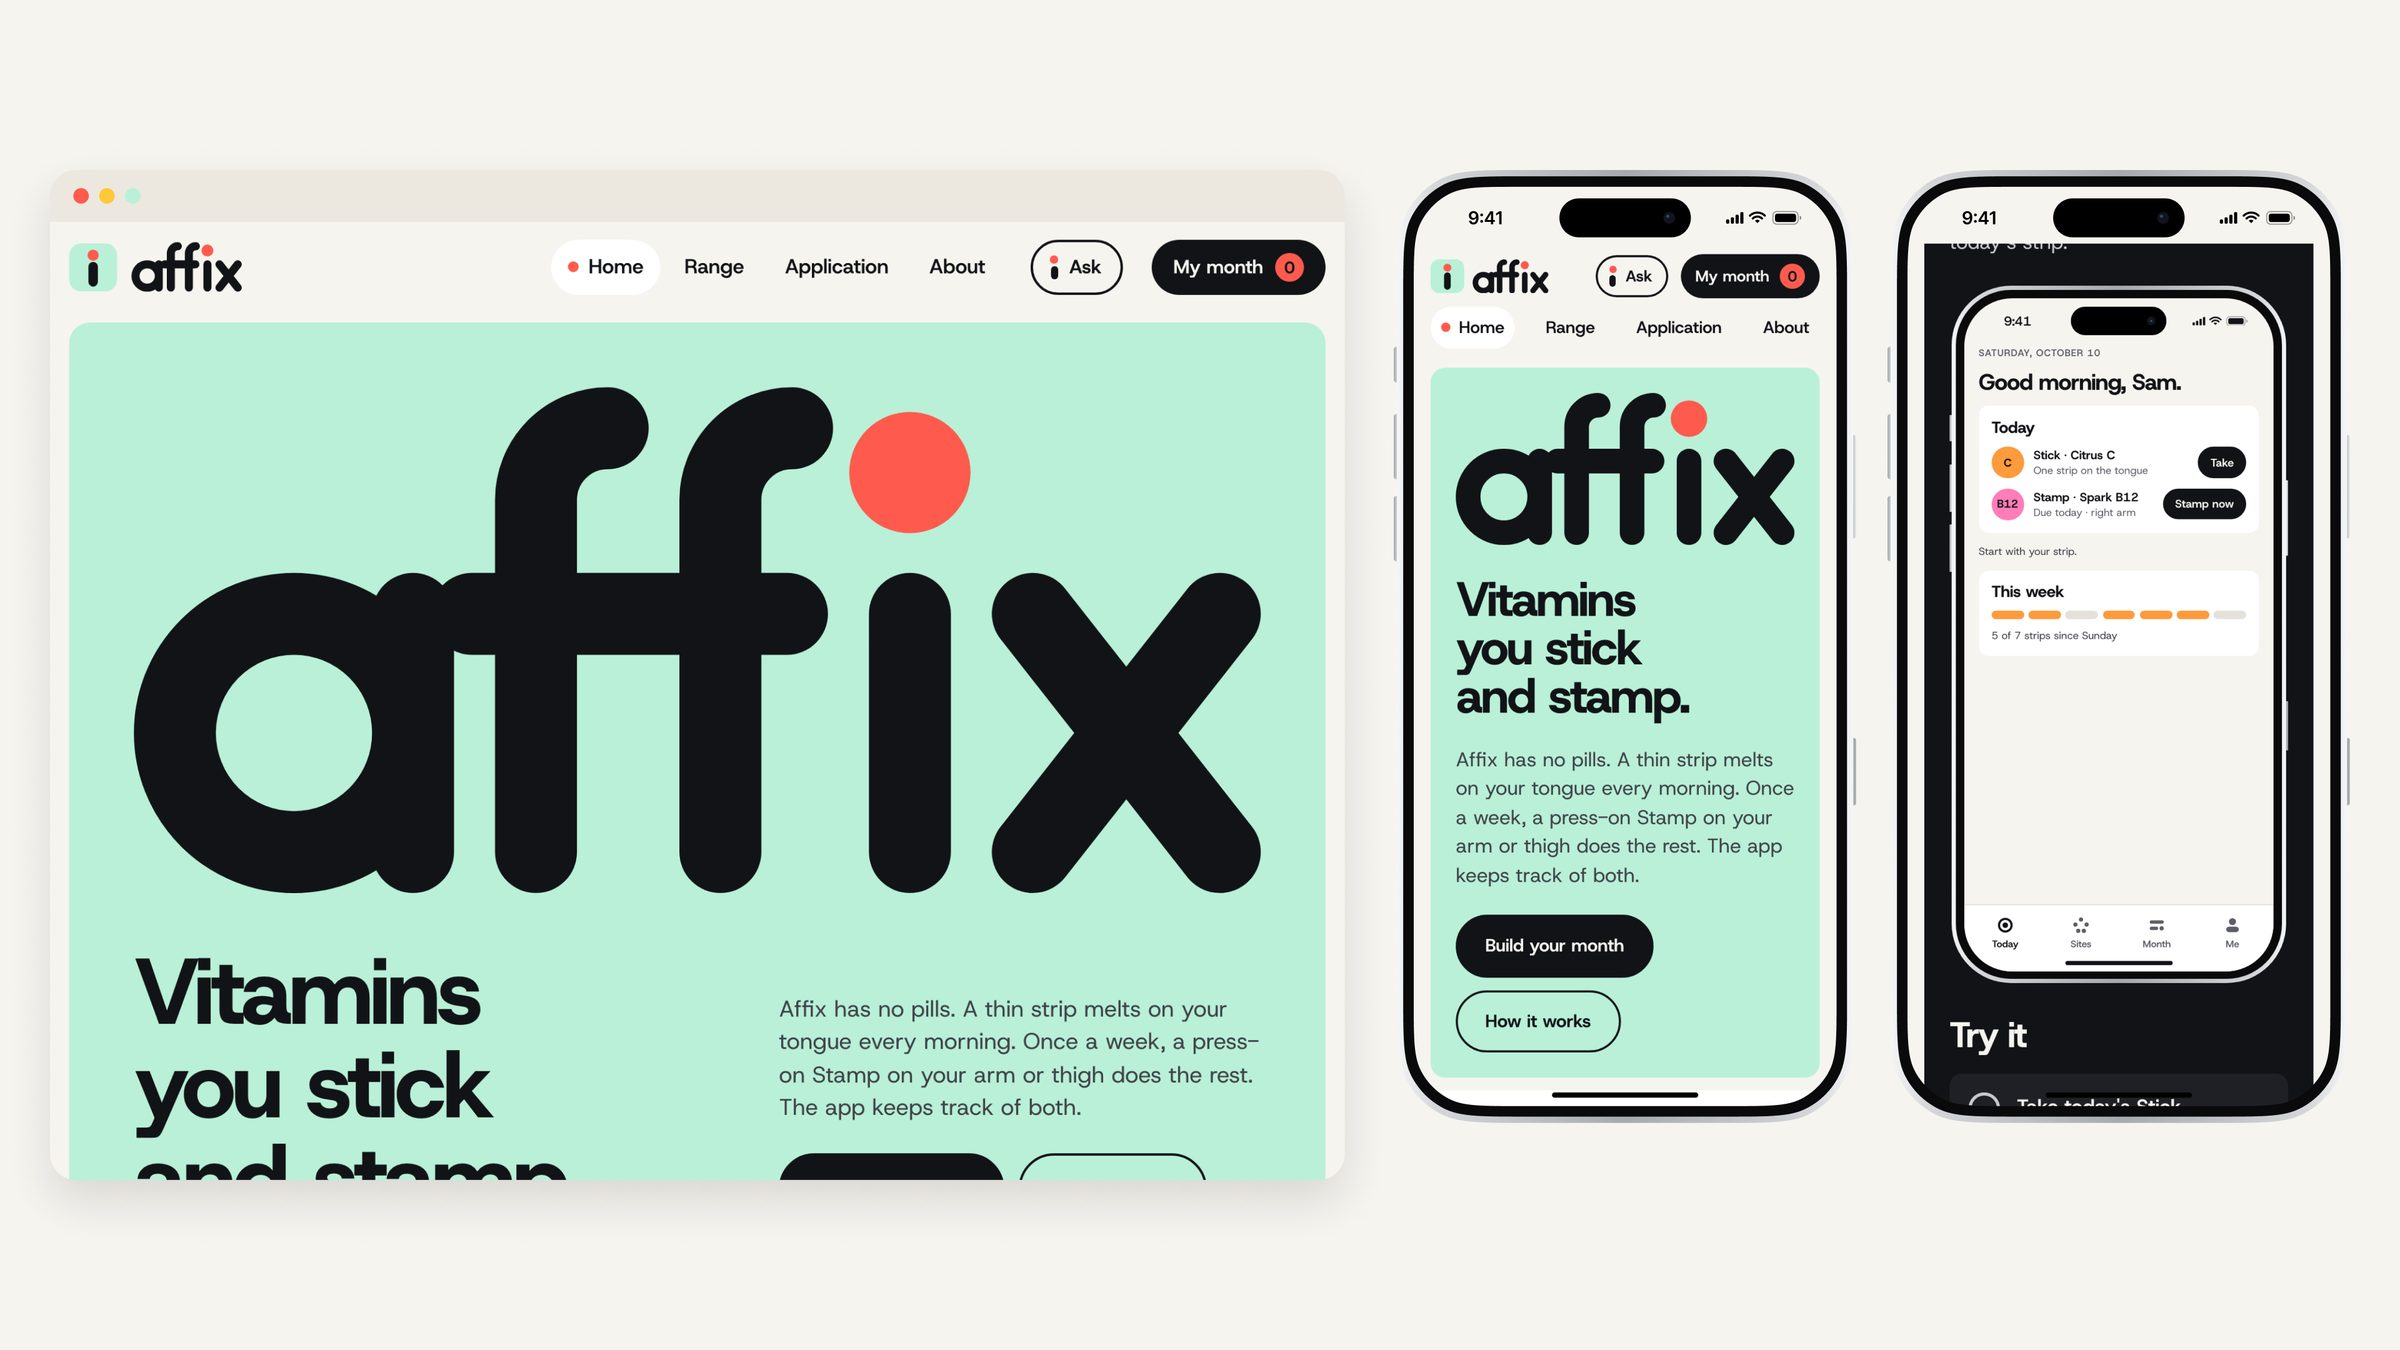
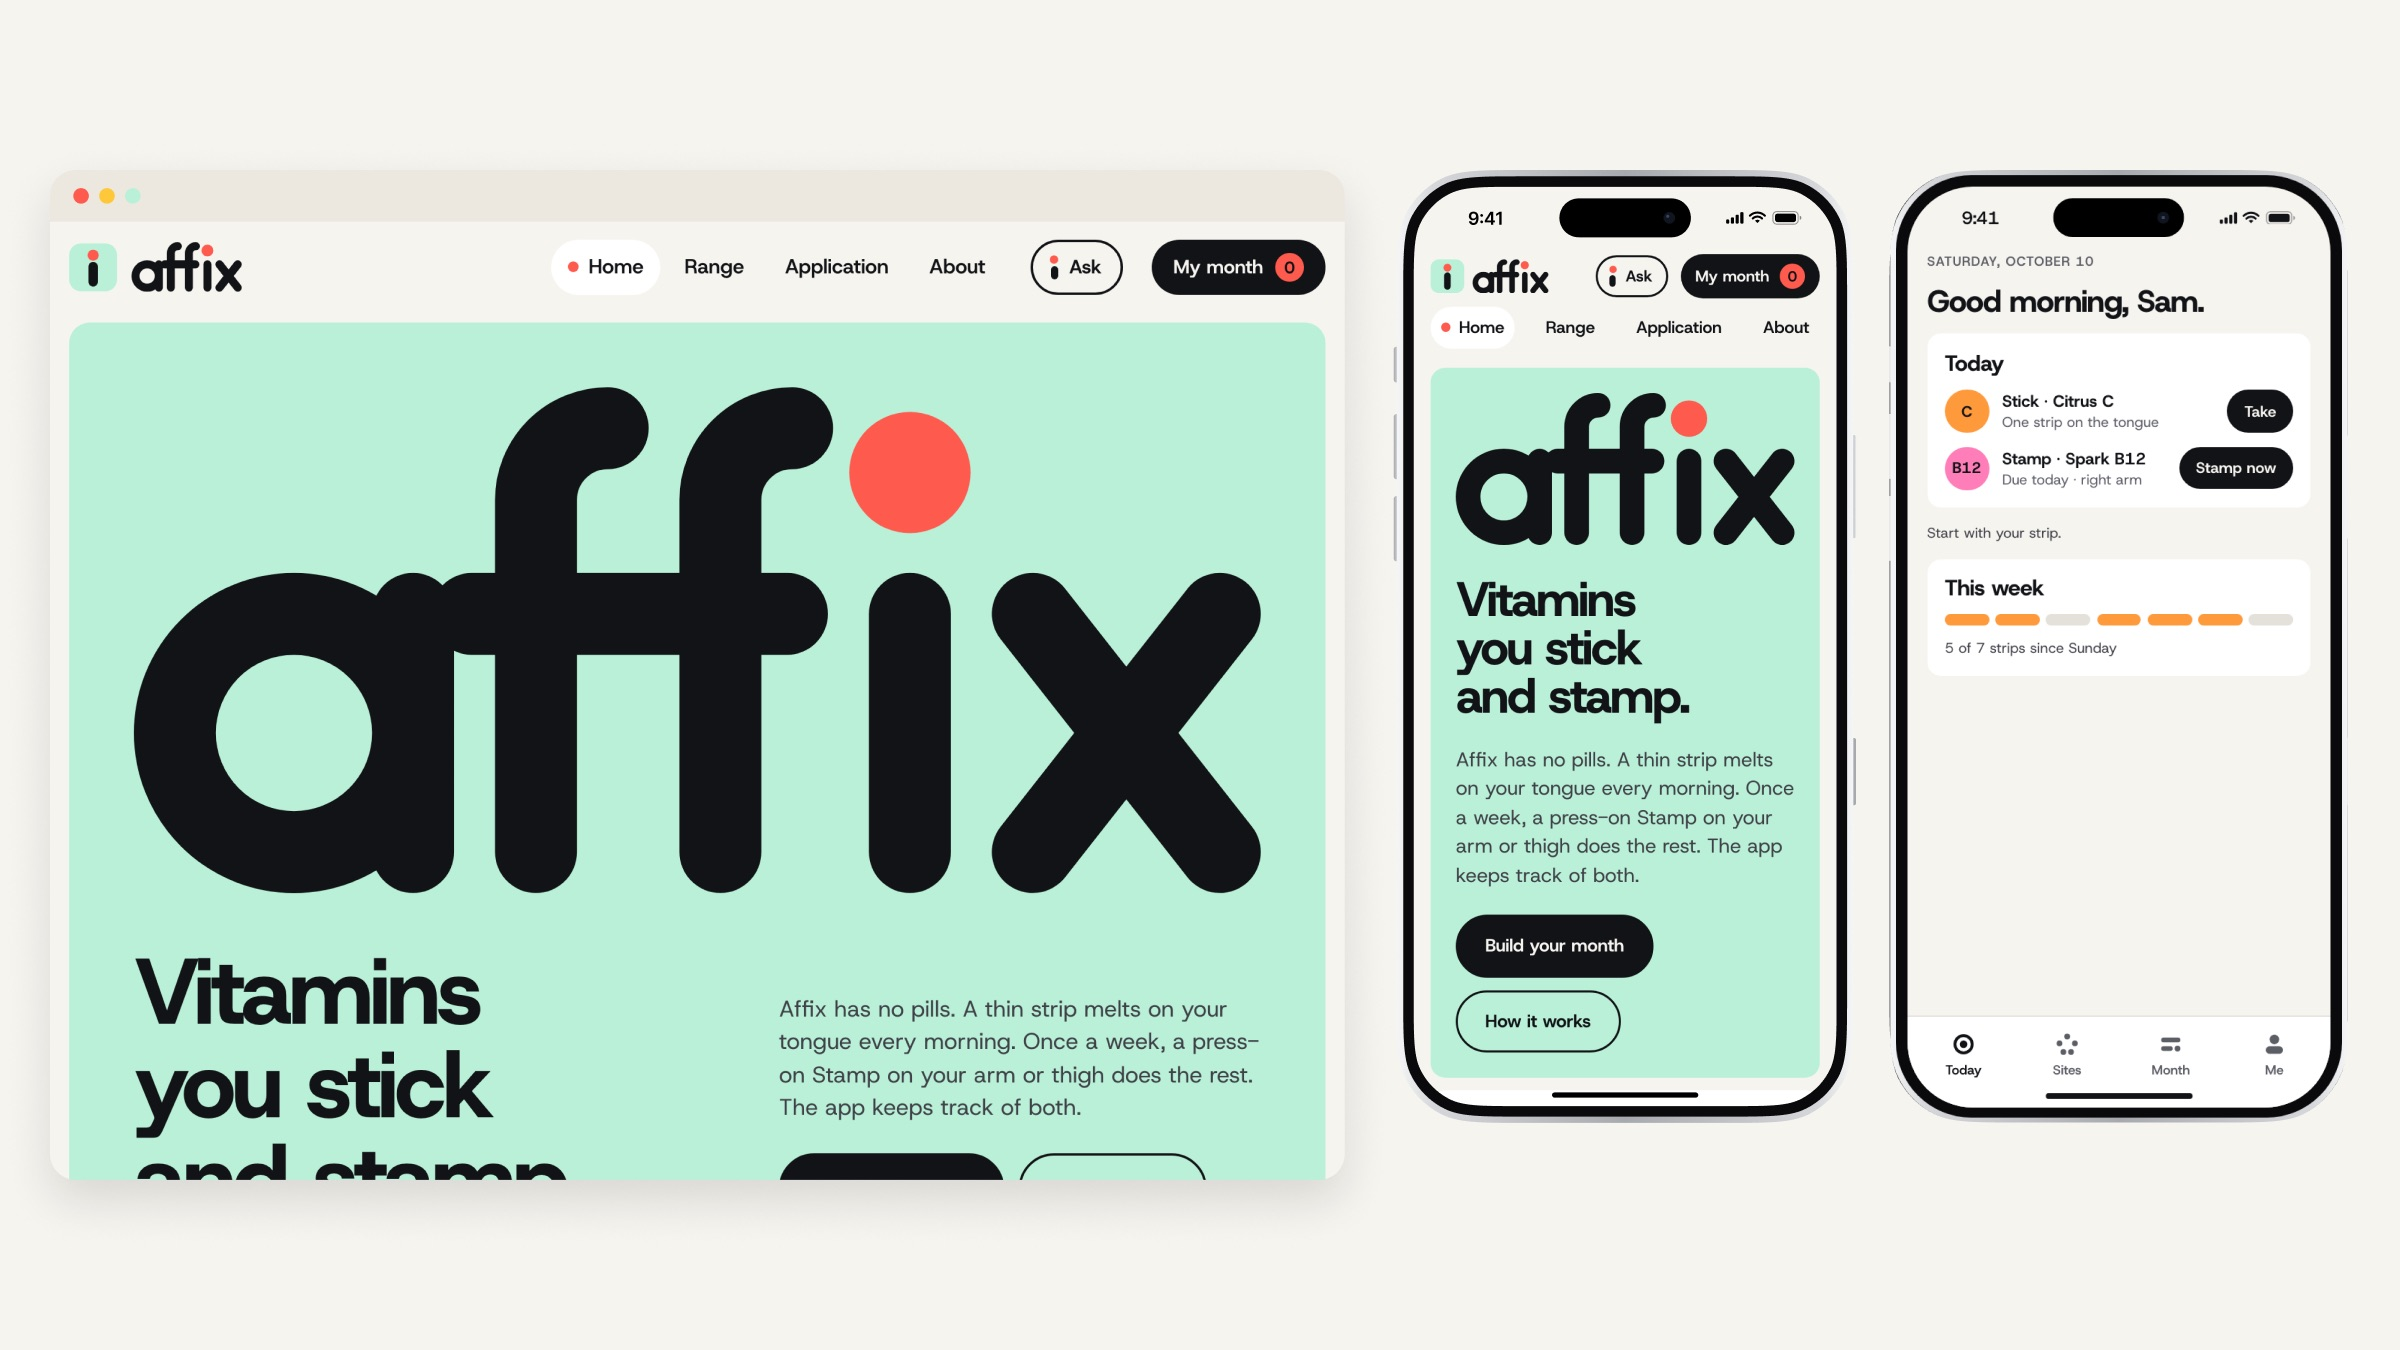
Affix website spread: drop the outer iPhone frame around the prototype

Changed region(s): [[0.7812, 0.1556, 0.9688, 0.84]]

diff --git a/affix.html b/affix.html
@@ -54,7 +54,7 @@
     <img class="shot" src="img/affix-21.jpg" alt="Affix" loading="lazy" width="2400" height="1350">
     <img class="shot" src="img/affix-22.jpg" alt="Affix" loading="lazy" width="2400" height="1350">
     <img class="shot" src="img/affix-23.jpg?v=20261112b" alt="Affix" loading="lazy" width="2400" height="1350">
-    <img class="shot" src="img/affix-24.jpg" alt="Affix" loading="lazy" width="2400" height="1350">
+    <img class="shot" src="img/affix-24.jpg?v=20261113b" alt="Affix" loading="lazy" width="2400" height="1350">
     </div>
     <div class="pager"><span></span><a class="body plain" href="freshly.html">FRESHLY →</a></div>
   </div>
